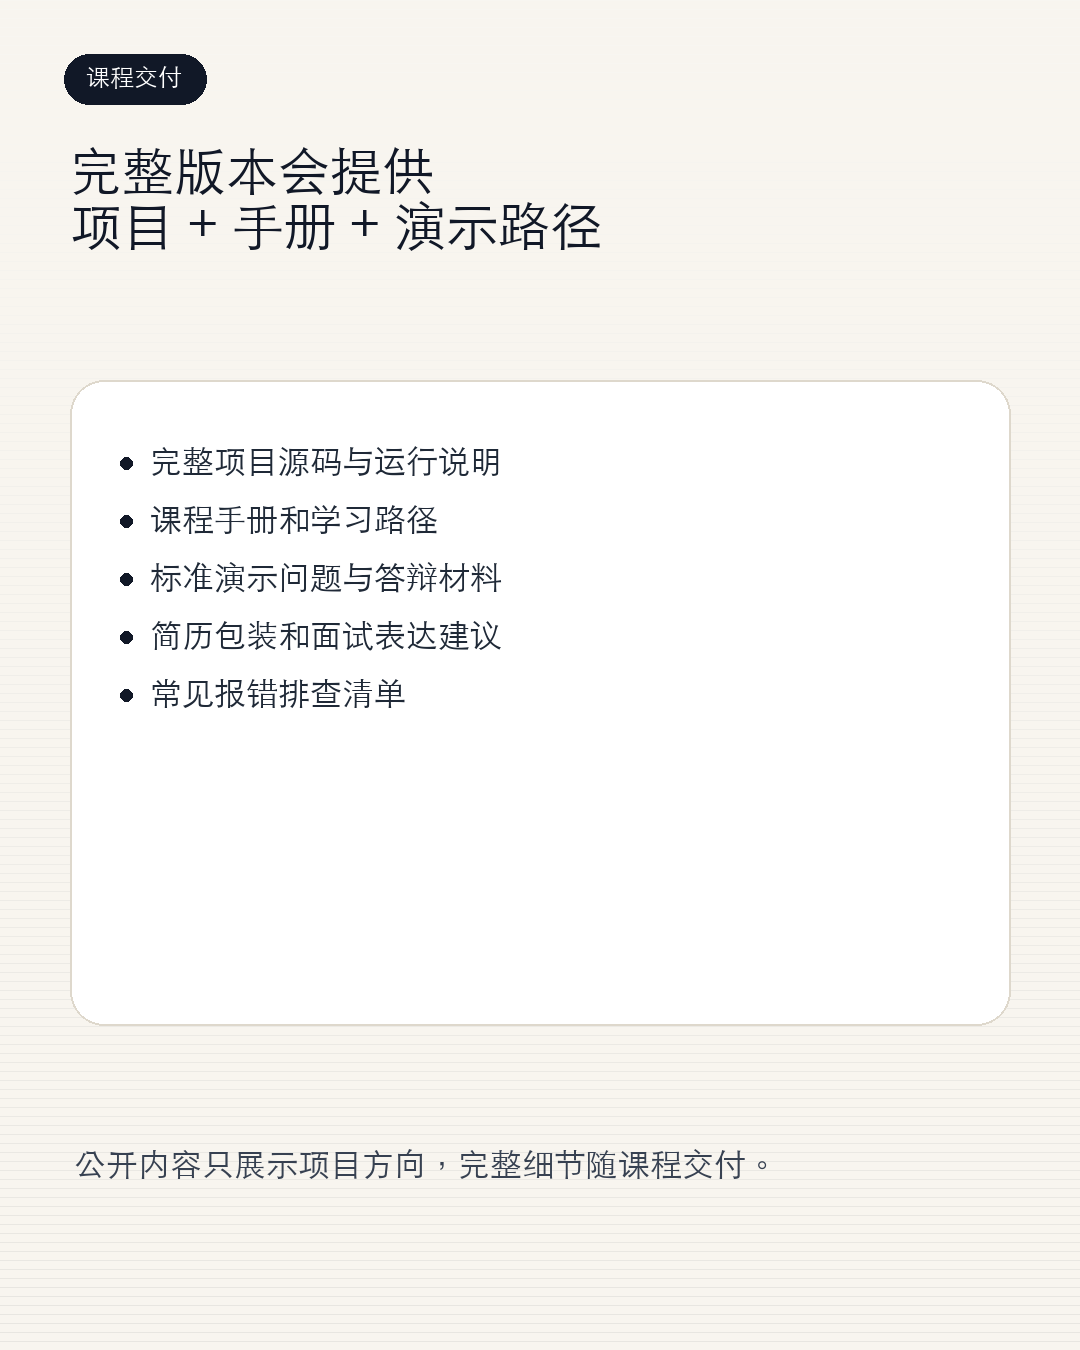
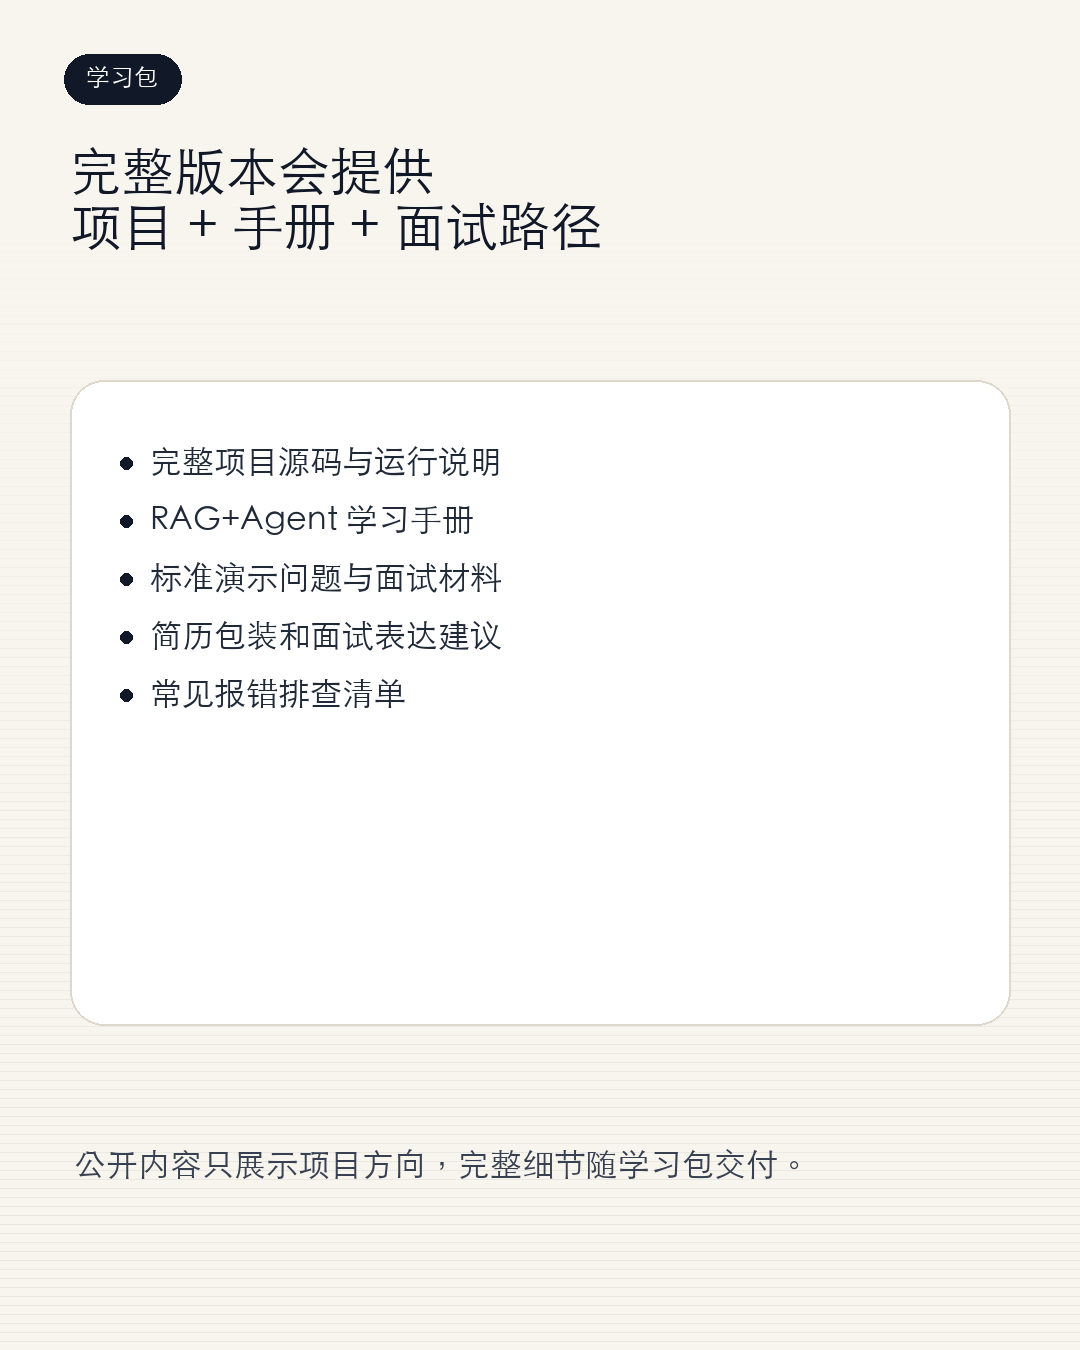
Refine XHS promo for interview learning positioning

diff --git a/marketing/xhs/generate_cards.py b/marketing/xhs/generate_cards.py
@@ -70,7 +70,7 @@ def save(img: Image.Image, name: str):
 def card_cover():
     img = make_canvas()
     draw = ImageDraw.Draw(img)
-    draw_header(draw, "AI项目课")
+    draw_header(draw, "RAG+Agent")
     text(draw, (70, 185), "我做了一个\n能写进简历的\nAgent 项目", FONT_TITLE, spacing=16)
     text(draw, (74, 550), "Paper RAG Agent", font(46, True), "#111827")
     text(draw, (74, 615), "一个面向论文研读的 AI 工作台", FONT_SUB, "#374151")
@@ -82,7 +82,7 @@ def card_cover():
         [
             "不是普通聊天机器人",
             "不是智能客服模板",
-            "是可以演示、答辩、写简历的完整项目",
+            "是可以学习、演示、写简历的完整项目",
         ],
     )
     text(draw, (74, 1185), "适合：想做 AI Agent / RAG 项目的同学", FONT_SMALL, "#6b7280")
@@ -120,7 +120,7 @@ def card_value():
             "回答时展示引用证据",
             "生成论文 Wiki / 知识笔记",
             "记录反馈，方便继续优化",
-            "可以作为课堂演示和面试项目",
+            "适合 RAG+Agent 学习和面试展示",
         ],
     )
     text(draw, (72, 1175), "公开帖只讲效果，不展开具体实现细节。", FONT_SMALL, "#6b7280")
@@ -137,7 +137,7 @@ def card_difference():
     text(draw, (105, 410), "智能客服", font(40, True), "#111827")
     text(draw, (605, 410), "Paper RAG Agent", font(38, True), "#ffffff")
     text(draw, (105, 510), "更偏业务接待\nFAQ 回复\n售前售后流程\n固定话术", FONT_BODY, "#374151", spacing=18)
-    text(draw, (605, 510), "更偏知识研读\n论文问答\n证据引用\n项目答辩", FONT_BODY, "#f9fafb", spacing=18)
+    text(draw, (605, 510), "更偏知识研读\n论文问答\n证据引用\n面试表达", FONT_BODY, "#f9fafb", spacing=18)
     text(draw, (105, 850), "关键词：服务流程", FONT_SMALL, "#6b7280")
     text(draw, (605, 850), "关键词：学习成果", FONT_SMALL, "#d1d5db")
     text(draw, (72, 1160), "一个适合讲“我做过完整 AI 应用”的项目。", FONT_BODY, "#374151")
@@ -169,8 +169,8 @@ def card_audience():
 def card_course():
     img = make_canvas()
     draw = ImageDraw.Draw(img)
-    draw_header(draw, "课程交付")
-    text(draw, (70, 145), "完整版本会提供\n项目 + 手册 + 演示路径", font(52, True), spacing=10)
+    draw_header(draw, "学习包")
+    text(draw, (70, 145), "完整版本会提供\n项目 + 手册 + 面试路径", font(52, True), spacing=10)
     rounded(draw, (70, 380, 1010, 1025), 34, "#ffffff", "#ded8cc")
     bullet_lines(
         draw,
@@ -178,13 +178,13 @@ def card_course():
         445,
         [
             "完整项目源码与运行说明",
-            "课程手册和学习路径",
-            "标准演示问题与答辩材料",
+            "RAG+Agent 学习手册",
+            "标准演示问题与面试材料",
             "简历包装和面试表达建议",
             "常见报错排查清单",
         ],
     )
-    text(draw, (74, 1148), "公开内容只展示项目方向，完整细节随课程交付。", FONT_BODY, "#374151")
+    text(draw, (74, 1148), "公开内容只展示项目方向，完整细节随学习包交付。", FONT_BODY, "#374151")
     save(img, "06_course_pack.png")
 
 
